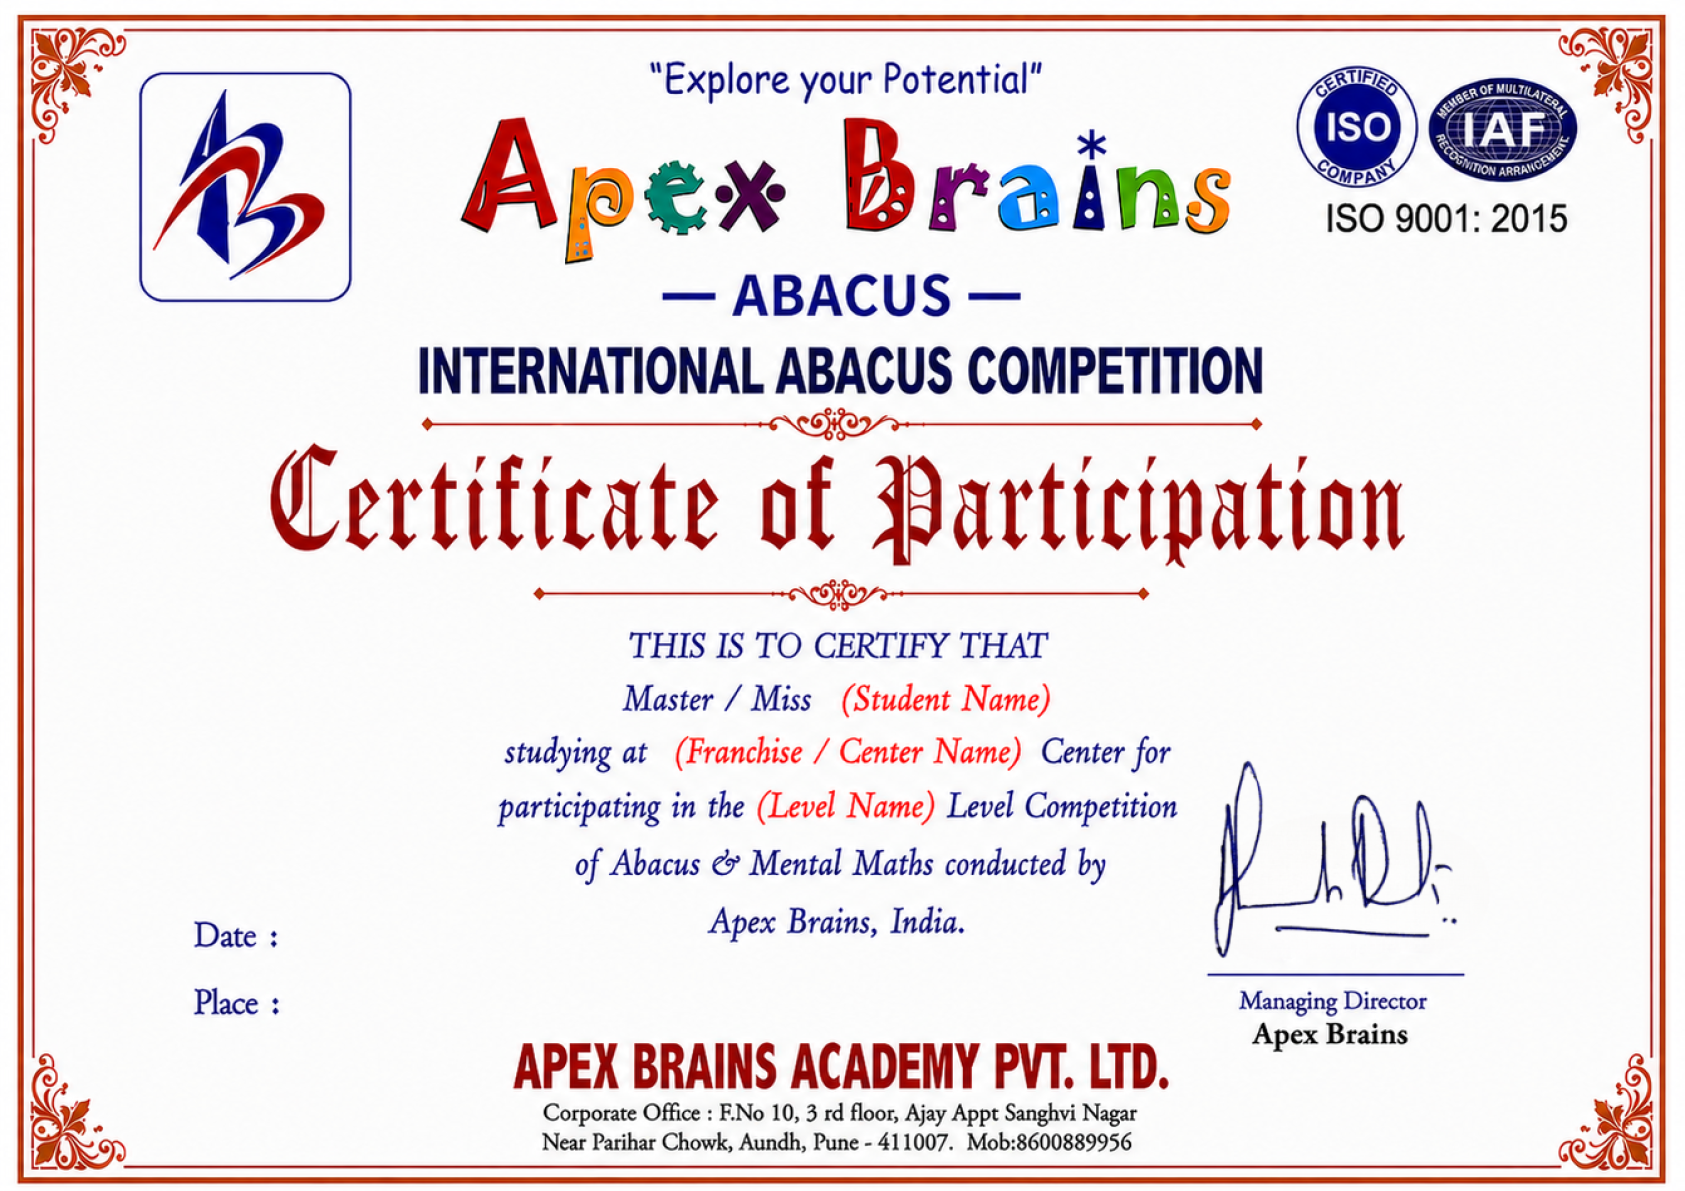
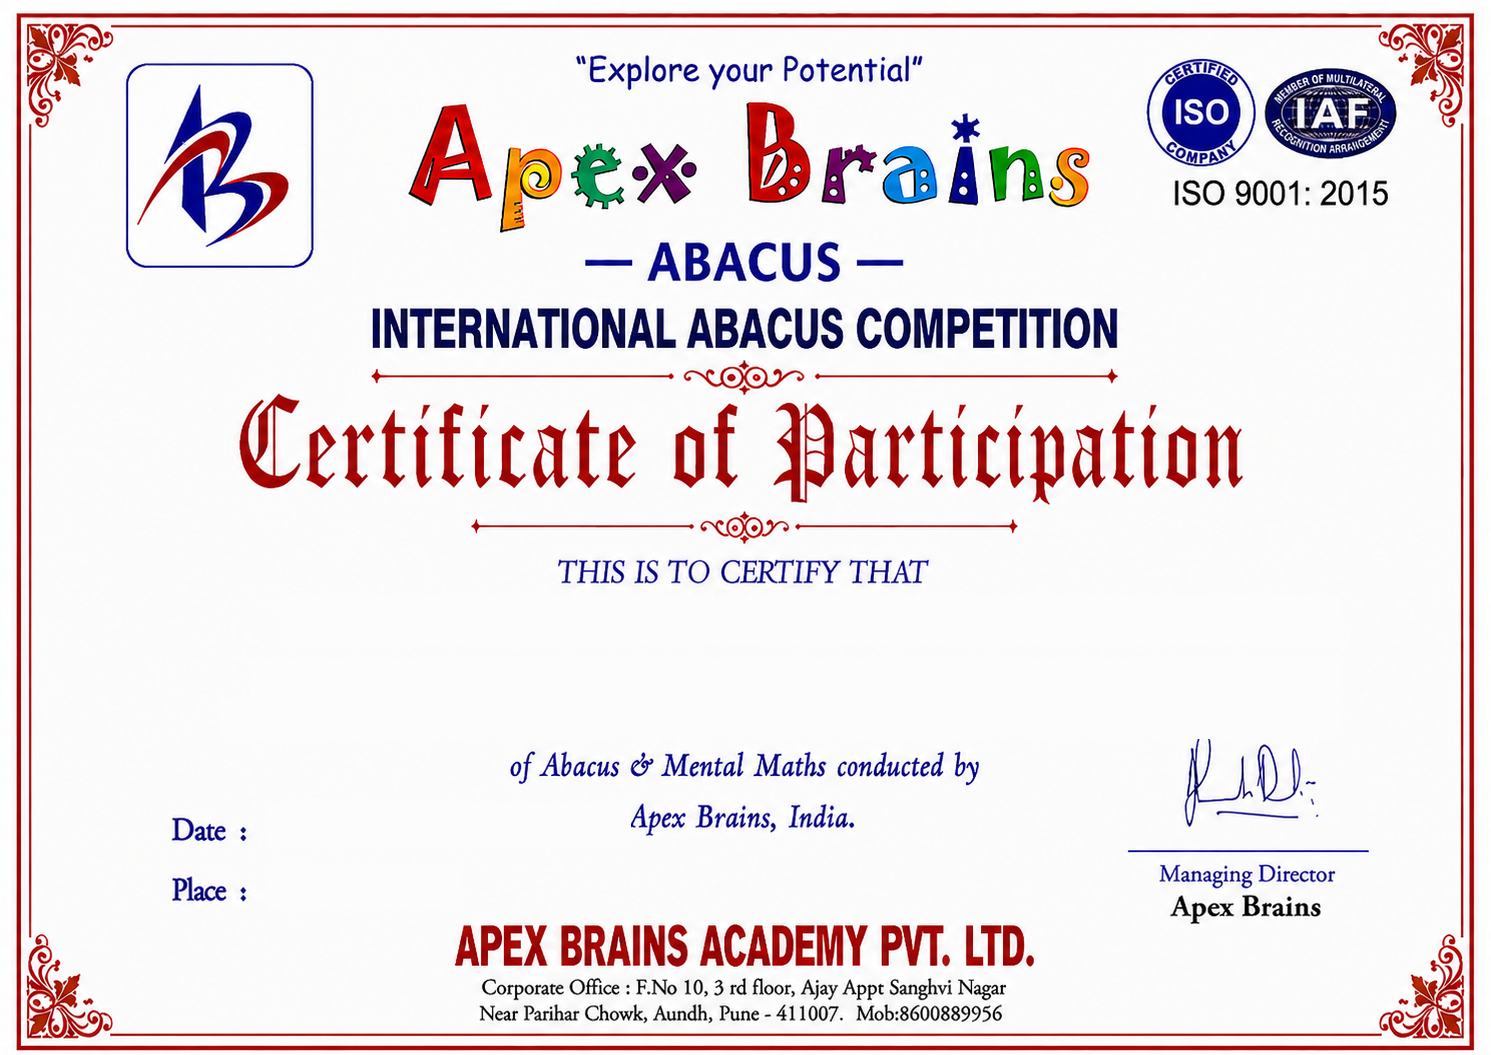
feat(certificates): replace Participation certificate with client's exact design
Background artwork (public/images/certificates/participation.png) replaced
with the client-supplied reference PNG as-is; only the 5 dynamic-field
regions (Name, Franchise/Centre, Level, Date value, Place value) are masked
out to bare paper, leaving every other element (logo, wordmark, title,
borders, decorative corners, signature, footer) byte-identical to the
supplied file.

CertificateImageComposer's Participation/Competition field coordinates
recalibrated via direct pixel-scanning of the new artwork, wording updated
to match ("... Online Competition"), and the Date field now shows the
actual competition date instead of the certificate's issuance date —
scoped narrowly so Level Up/Champion/Winner are unaffected.

Verified: real-data render matches the reference closely, a stress test
with unusually long name/franchise/level/place values shrinks-to-fit
correctly with no overlaps, and the full dompdf PDF pipeline (shared by
Franchise/Student/External download and preview paths) produces a valid
single-page PDF.

diff --git a/app/Services/CertificateImageComposer.php b/app/Services/CertificateImageComposer.php
@@ -23,6 +23,10 @@ class CertificateImageComposer
         $levelName     = $certificate->level?->title ?? '';
         $placeVal      = $certificate->place ?: ($certificate->franchise?->city ?? '');
         $dateVal       = optional($certificate->issued_at)->format('d F Y');
+        // Participation/Competition certs show the actual competition date
+        // (not the issuance date) — scoped to this variable only so it
+        // doesn't change Level Up/Champion/Winner's existing date behavior.
+        $competitionDateVal = optional($certificate->competition?->start_date ?? $certificate->issued_at)->format('d F Y');
 
         $navyItalic = [28, 46, 99];
         $navyBold   = [18, 24, 47];
@@ -46,32 +50,24 @@ class CertificateImageComposer
             // one composed string per render. That's what keeps a short name
             // and a long name both landing dead-center with natural spacing,
             // instead of only the value shifting inside a fixed-width blank.
+            // 2026-08-10 exact-design replacement (client-supplied reference
+            // PNG "Certificate of Participation" — layout/fonts/colors/border/
+            // logos/signature all baked into public/images/certificates/
+            // participation.png as-is; only these 5 lines are masked+redrawn).
+            // Coordinates calibrated directly against that artwork via pixel
+            // scanning (ink y/x-extent per line) — native canvas is 1491×1055.
             Certificate::TYPE_PARTICIPATION, Certificate::TYPE_COMPETITION => [
-                // The 3 baked placeholder lines' true ink extents (including
-                // tall italic parenthesis swashes) overlap each other, so a
-                // single wipe of the whole block runs first (empty text = mask
-                // only, no draw) before each line is drawn in its own smaller,
-                // non-overlapping band — otherwise masking line 2's own box
-                // would clip line 1's already-drawn descenders, etc.
-                // 'box' stays the full symmetric width so centering math treats
-                // page-center (~838) correctly; 'maskBox' stops at x=1170 — well
-                // short of where the Managing Director signature starts (~1200)
-                // — so erasing/redrawing these lines never wipes into it.
-                ['box' => [170, 676, 1520, 848], 'maskBox' => [170, 676, 1170, 848], 'text' => ''],
-                ['box' => [170, 690, 1520, 725], 'maskBox' => [170, 690, 1170, 725], 'text' => 'Master / Miss ' . $studentName, 'font' => 'italic', 'size' => 30, 'color' => $navyItalic, 'align' => 'center', 'baseline' => 711],
-                // These two run long ("... Center for" / "... Level
-                // Competition") and can graze the signature at full width even
-                // for normal values — box itself (not just maskBox) is capped
-                // at x=1170, still centered on the same ~838 page-center, so
-                // shrink-to-fit engages before text ever reaches the signature.
-                ['box' => [506, 750, 1170, 782], 'text' => 'studying at ' . $franchiseName . ' Center for', 'font' => 'italic', 'size' => 26, 'color' => $navyItalic, 'align' => 'center', 'baseline' => 773],
-                ['box' => [506, 795, 1170, 827], 'text' => 'participating in the ' . $levelName . ' Level Competition', 'font' => 'italic', 'size' => 26, 'color' => $navyItalic, 'align' => 'center', 'baseline' => 818],
-                // Narrower box width than the other fields — "Apex Brains,
-                // India." is centered and sits at nearly this same height, so
-                // the box must stop well short of its left edge (x=707) or
-                // masking the date value would clip into that static line.
-                ['box' => [295, 918, 650, 946],  'pad' => 20, 'text' => $dateVal,  'font' => 'italic', 'size' => 24, 'color' => $navyItalic, 'align' => 'left', 'baseline' => 944],
-                ['box' => [295, 986, 650, 1013], 'pad' => 20, 'text' => $placeVal, 'font' => 'italic', 'size' => 24, 'color' => $navyItalic, 'align' => 'left', 'baseline' => 1006],
+                ['box' => [280, 596, 1340, 644], 'text' => 'Master / Miss ' . $studentName, 'font' => 'italic', 'size' => 30, 'color' => $navyItalic, 'align' => 'center', 'baseline' => 630],
+                ['box' => [250, 658, 1340, 700], 'text' => 'studying at ' . $franchiseName . ' Center for', 'font' => 'italic', 'size' => 25, 'color' => $navyItalic, 'align' => 'center', 'baseline' => 688],
+                ['box' => [220, 699, 1340, 738], 'text' => 'participating in the ' . $levelName . ' Online Competition', 'font' => 'italic', 'size' => 25, 'color' => $navyItalic, 'align' => 'center', 'baseline' => 726],
+                // Date value only — "Date :" label stays baked into the
+                // artwork. Box is capped at x=630: "Apex Brains, India." (a
+                // separate static line) starts at x≈640 at nearly this same
+                // height, so this must stop short of it or a long date value
+                // would run into that line — shrink-to-fit engages instead.
+                ['box' => [268, 804, 630, 847], 'text' => $competitionDateVal, 'font' => 'italic', 'size' => 26, 'color' => $navyItalic, 'align' => 'left', 'baseline' => 840],
+                // Place value only — "Place :" label stays baked into the artwork.
+                ['box' => [268, 866, 460, 908], 'text' => $placeVal, 'font' => 'italic', 'size' => 22, 'color' => $navyItalic, 'align' => 'left', 'baseline' => 892],
             ],
             Certificate::TYPE_LEVEL_UP, Certificate::TYPE_LEVEL_COMPLETION => [
                 // 'box' itself (not just a separate maskBox) is capped at
